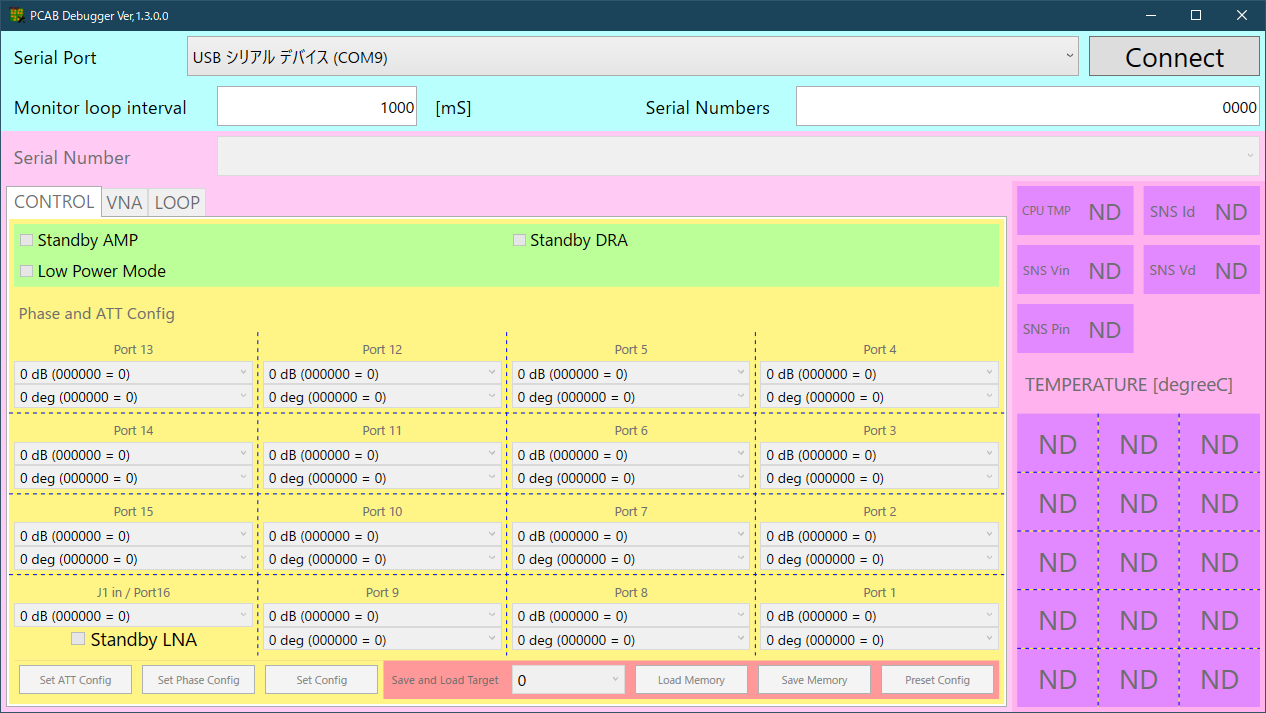
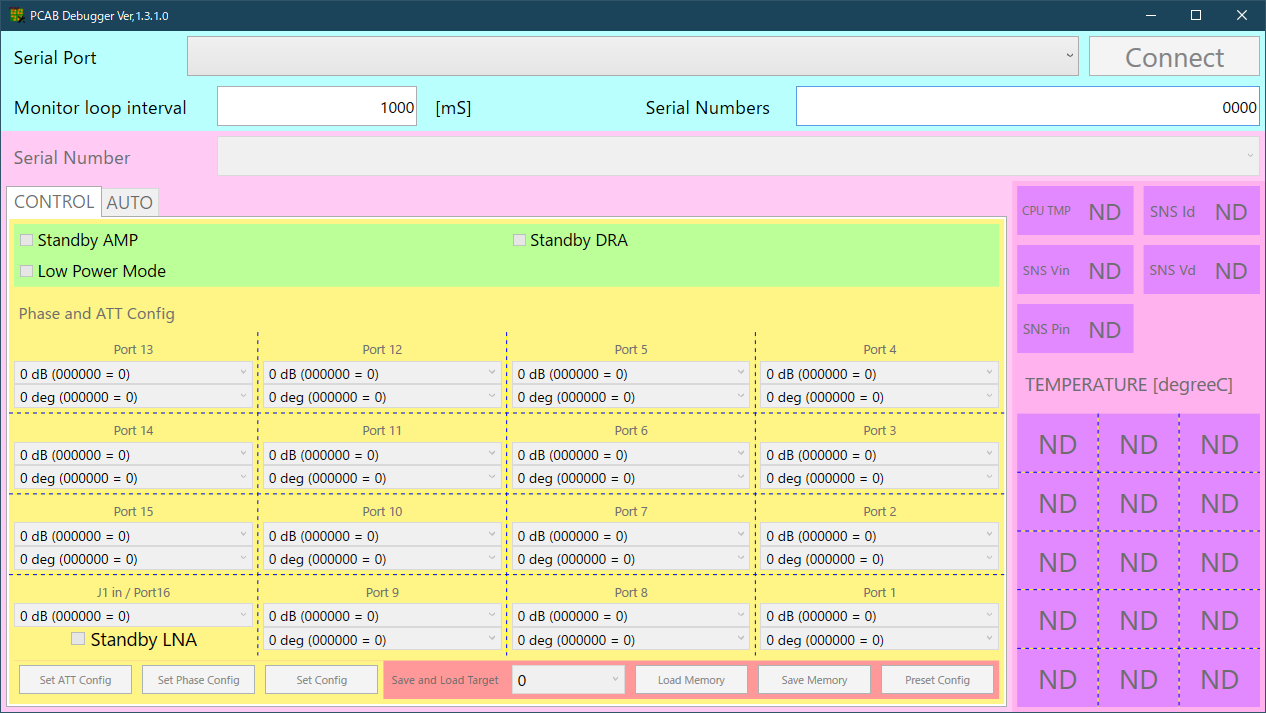
v1.3.1

Changed region(s): [[0.8934, 0.0617, 0.9858, 0.1234], [0.0616, 0.2468, 0.1848, 0.3086], [0.154, 0.0617, 0.3081, 0.0926]]

diff --git a/PCAB_Debugger_GUI/README.md b/PCAB_Debugger_GUI/README.md
@@ -7,7 +7,11 @@ Control GUI program.
 <img src="https://github.com/mw-eng/PCAB_Debugger/blob/master/PCAB_Debugger_GUI/assets/UI1.png?raw=true" width="600px"><br>
 <br>
 ${\color{Aqua} 1. \space Settings \space before \space connection}$<br>
-1.1.  Serial Port            : Select the *Serial Port* coneected to PCAB.<br>
+|No|Item|Description|
+|:--|:--|:--|
+|1.1.|Serial Port|Select the *Serial Port* coneected to PCAB.
+
+
 1.2.  Monitor loop inberval  : Specifies the acquisition interval for monitors (temperature, etc.) in milliseconds.<br>
 1.3.  Serial Numbers         : Enter the serial number of the connect target (separate with "," when connecting multiple units).<br>
 
@@ -37,25 +41,20 @@ ${\color{Gold} 3. \space Control \space TAB}$<br>
 
 <br><img src="https://github.com/mw-eng/PCAB_Debugger/blob/master/PCAB_Debugger_GUI/assets/UI2.png?raw=true" width="600px"><br>
 <br>
-${\color{LightSkyBlue} 4. \space VNA \space automatic \space measurement \space control}$<br>
+${\color{LightSkyBlue} 4. \space AUTO \space automatic \space measurement \space control}$<br>
 4.1.  VISA Address	         : Instrument visa address.<br>
 4.2.  Check Button	         : Instrument communication check.<br>
 4.3.  Channel		         : Config collection channels.<br>
 4.4.  Mode Settings	         : Automatic trigger settings.<br>
-4.5.  Save target	         : What to save.<br>
-4.6.  PS{xx}		         : Check loop target.<br>
+4.5.  Save target	         : Select save target.<br>
 4.7.  File Name Header       : Save file name header.<br>
-4.8.  RUN Button             : Automatic measurement execution button.<br>
 
+4.8.  DPS Loop 	             : Enable the phase delay step loop.<br>
+4.9.  DPS step				 : Select the phase delay step interval.<br>
+4.0.  DPSn                   : Select target.<br>
+4.11.  DSA Loop 	             : Enable the attenation step loop.<br>
+4.12.  DSA step				 : Select the attenation step interval.<br>
+4.13.  DSAn                   : Select target.<br>
+4.14.  Waite Time             : Waite time befor next step.<br>
 
-<br><img src="https://github.com/mw-eng/PCAB_Debugger/blob/master/PCAB_Debugger_GUI/assets/UI3.png?raw=true" width="600px"><br>
-<br>
-${\color{Lime} 5. \space LOOP \space automatic \space loop \space control}$<br>
-5.1.  DPS Loop 	             : Enable the phase delay step loop.<br>
-5.2.  DPS step				 : Select the phase delay step interval.<br>
-5.3.  DPSn                   : Select target.<br>
-5.4.  DSA Loop 	             : Enable the attenation step loop.<br>
-5.5.  DSA step				 : Select the attenation step interval.<br>
-5.6.  DSAn                   : Select target.<br>
-5.7.  Waite Time             : Waite time befor next step.<br>
-5.8.  START Button			 : Automatic loop control execution button.<br>
+4.15.  START Button			 : Automatic loop control execution button.<br>
